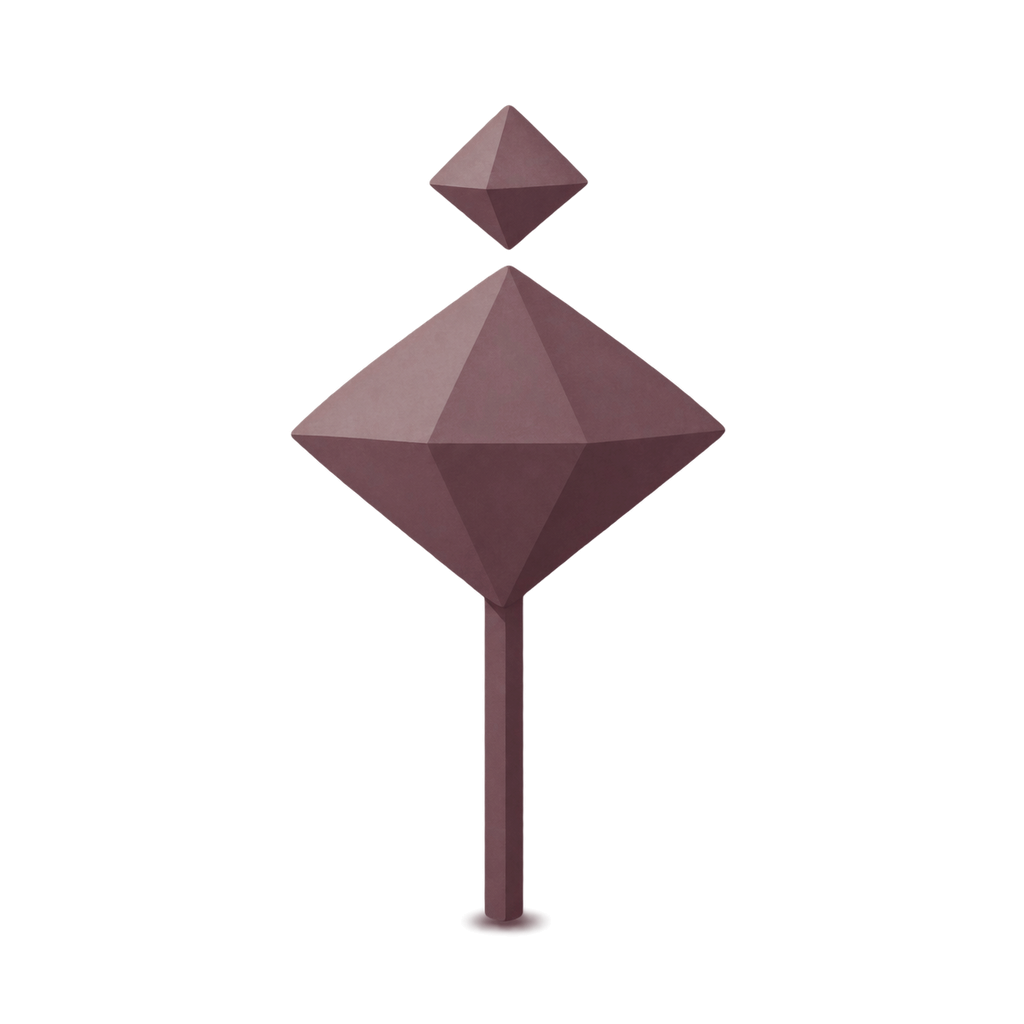
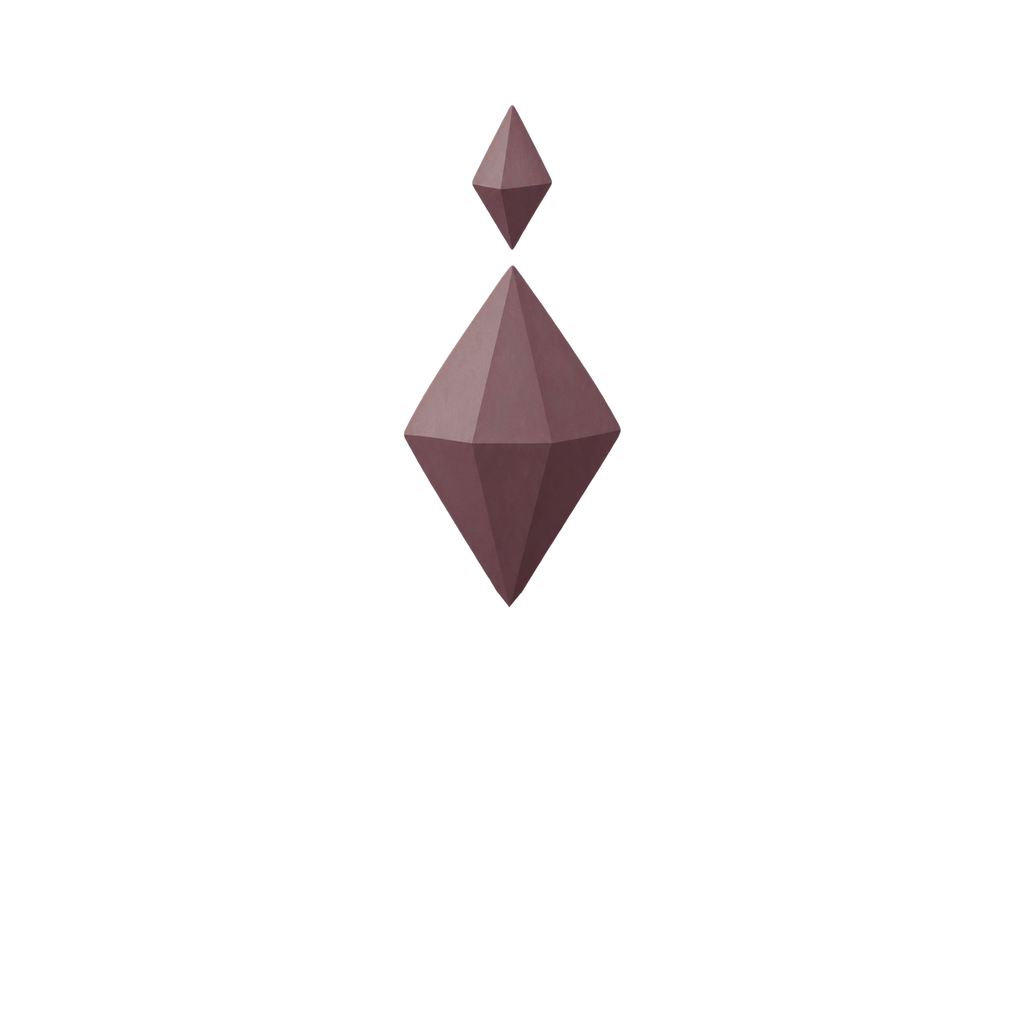
Add picture wheel concepts and thin floating Waypost gems

Changed region(s): [[0.2812, 0.0938, 0.7188, 0.9375]]

diff --git a/design/art/concepts/lost-and-found/make-review.py b/design/art/concepts/lost-and-found/make-review.py
@@ -3,7 +3,7 @@ from pathlib import Path
 from collections import deque
 from io import BytesIO
 import subprocess
-from PIL import Image, ImageOps, ImageDraw, ImageFilter, ImageFont
+from PIL import Image, ImageOps, ImageDraw, ImageFilter, ImageFont, ImageChops
 P=Path(__file__).resolve().parent
 LAND=(243,239,230); NAVY=(22,38,63); BRASS=(201,161,90); PLUM=(110,43,63)
 SIZE=(1024,1536)
@@ -40,36 +40,55 @@ def extract_keyhole_ball():
     ball=Image.new("RGBA",(edge,edge))
     ball.paste(piece,((edge-piece.width)//2,(edge-piece.height)//2))
     export("ball/ball-keyhole.png",ball)
-def derive_gems():
+def gem_pieces():
     source=load(P/"waypost/landmark-a-gem.png")
-    alpha=source.getchannel("A");w,h=source.size
-    bands=[]
+    alpha=source.getchannel("A");w,h=source.size;bands=[]
     for y in range(h):
         if alpha.crop((0,y,w,y+1)).getextrema()[1]>0:
             if not bands or y>bands[-1][1]+1:bands.append([y,y])
             else:bands[-1][1]=y
-    if len(bands)!=2 or bands[1][0]-bands[0][1]<2:
-        raise RuntimeError("Small upper gem is not cleanly separate; stop for Roy.")
-    # Exactly delete the separate upper piece, then crop/centre without resampling.
-    lower=source.crop((0,bands[1][0],w,h))
-    piece=lower.crop(lower.getchannel("A").getbbox())
+    if bands!=[[103,251],[263,936]]:
+        raise RuntimeError("Source geometry changed; gem separation needs Roy's review.")
+    small=source.crop((0,103,w,252));small=small.crop(small.getchannel("A").getbbox())
+    # Follow the visible pointed facet boundary in the source, clipping the pole behind it.
+    mask=Image.new("L",(w*4,h*4));d=ImageDraw.Draw(mask)
+    points=((0,263),(w,263),(w,593),(525,593),(502,607),(480,593),(0,593))
+    d.polygon([(x*4,y*4) for x,y in points],fill=255)
+    mask=mask.resize(source.size,Image.Resampling.LANCZOS)
+    large=source.copy();large.putalpha(ImageChops.multiply(alpha,mask));large=large.crop(large.getchannel("A").getbbox())
+    return source,large,small
+def derive_gems():
+    source,large,small=gem_pieces();w,h=source.size
+    large=large.resize((round(large.width*.5),large.height),Image.Resampling.LANCZOS)
+    small=small.resize((round(small.width*.5),small.height),Image.Resampling.LANCZOS)
     common=Image.new("RGBA",source.size)
-    common.paste(piece,((w-piece.width)//2,(h-piece.height)//2))
+    common.paste(large,((w-large.width)//2,(h-large.height)//2))
     export("waypost/waypost-gem-purple.png",common)
-    r,g,b,a=source.split()
+    stacked=Image.new("RGBA",source.size)
+    stacked.paste(large,((w-large.width)//2,263))
+    stacked.paste(small,((w-small.width)//2,103))
+    r,g,b,a=stacked.split()
     deeper=Image.merge("RGBA",tuple(ch.point(lambda v:round(v*.8)) for ch in (r,g,b))+(a,))
     export("waypost/landmark-gem-deep-purple.png",deeper)
 def overview():
     out=load(P/"screens/map-plain.png")
     hero=resized(crop(load(P/"cracks/hourglass-corrupted-a.png")),height=200)
     out.alpha_composite(hero,((1024-hero.width)//2,500))
+    source=load(P/"waypost/landmark-a-gem.png")
+    old_common=source.crop((0,263,1024,1024));old_common=old_common.crop(old_common.getchannel("A").getbbox())
+    old_stack=source.crop(source.getchannel("A").getbbox())
+    shadow=Image.new("RGBA",SIZE);d=ImageDraw.Draw(shadow)
+    for cx,cy in ((170,650),(850,740),(610,1130),(380,290)):
+        rx=7 if (cx,cy)!=(380,290) else 11
+        d.ellipse((cx-rx,cy-3,cx+rx,cy+3),fill=NAVY+(45,))
+    out=Image.alpha_composite(out,shadow.filter(ImageFilter.GaussianBlur(2.5)))
     for cx,cy in ((170,650),(850,740),(610,1130)):
-        name=NAMES[0]
-        im=resized(crop(load(P/f"waypost/{name}.png")),width=56)
-        out.alpha_composite(im,(cx-im.width//2,cy-im.height))
-    for name,(cx,cy) in zip(LANDMARKS,((380,290),)):
-        im=resized(crop(load(P/f"waypost/{name}.png")),width=110)
-        out.alpha_composite(im,(cx-im.width//2,cy-im.height))
+        scale=56/old_common.width;im=crop(load(P/"waypost/waypost-gem-purple.png"))
+        im=im.resize((round(im.width*scale),round(im.height*scale)),Image.Resampling.LANCZOS)
+        out.alpha_composite(im,(cx-im.width//2,cy-round(old_common.height*scale)))
+    scale=110/old_stack.width;im=crop(load(P/"waypost/landmark-gem-deep-purple.png"))
+    im=im.resize((round(im.width*scale),round(im.height*scale)),Image.Resampling.LANCZOS)
+    out.alpha_composite(im,(380-im.width//2,290-round(old_stack.height*scale)))
     export("screens/map-capsule-and-wayposts.png",out.convert("RGB"))
 def small_check():
     out=Image.new("RGBA",(500,300),LAND+(255,))
@@ -78,6 +97,35 @@ def small_check():
             im=fit(crop(load(P/f"waypost/{name}.png")),size,size)
             out.alpha_composite(im,(cx-im.width//2,25+row*135))
     export("checks/wayposts-64.png",out)
+WHEEL_SCENES=(
+    ("park","Park"),("garden","Garden"),("waterfront","Waterfront"),
+    ("square","Square"),("public-art","Public art"),
+    ("landmark-taipei","Landmark: Taipei"),
+    ("landmark-singapore","Landmark: Singapore"),("landmark-macau","Landmark: Macau"),
+)
+def wheel_circle(path,size):
+    # Rim belongs to the preview, never to the opaque square scene master.
+    scale=4;edge=size*scale
+    scene=load(P/path).resize((edge,edge),Image.Resampling.LANCZOS)
+    mask=Image.new("L",(edge,edge));ImageDraw.Draw(mask).ellipse((0,0,edge-1,edge-1),fill=255)
+    scene.putalpha(mask)
+    ImageDraw.Draw(scene).ellipse((0,0,edge-1,edge-1),outline=BRASS+(255,),width=3*scale)
+    return scene.resize((size,size),Image.Resampling.LANCZOS)
+def wheel_checks():
+    for name,_ in WHEEL_SCENES:
+        path=P/f"wheel/scene-{name}.png";im=load(path)
+        if im.width!=im.height or min(im.size)<1024:
+            raise RuntimeError(f"Expected square scene at least 1024 px: {path}")
+        if im.getchannel("A").getextrema()!=(255,255):
+            raise RuntimeError(f"Expected opaque wheel scene: {path}")
+        if im.size!=(1024,1024):
+            im.resize((1024,1024),Image.Resampling.LANCZOS).convert("RGB").save(path)
+    check=Image.new("RGBA",(480,8*264),(246,248,251,255))
+    for row,(name,_) in enumerate(WHEEL_SCENES):
+        path=f"wheel/scene-{name}.png"
+        for x,size in ((32,96),(200,240)):
+            check.alpha_composite(wheel_circle(path,size),(x,row*264+(264-size)//2))
+    export("checks/wheel-96-240.png",check.convert("RGB"))
 def chosen_ball_previews():
     gold_path=P/"ball/ball-keyhole-gold.png"
     gold=load(gold_path)
@@ -112,10 +160,12 @@ def sheet():
       ("",[("cracks/other-vessels-proof.png","Crack A on the dome, envelope and Maison vessels")],450),
       ("3 Throw and hit",[("screens/screen-throw.png","Throw: keyhole ball, separate layers"),("screens/screen-hit.png","Hit: mending Corrupted Capsule")],700),
       ("",[("screens/catch-background.png","Shared catch and Landmark fight background")],650),
-      ("4 Waypost",[("waypost/waypost-gem-purple.png","Waypost: purple gem"),("waypost/landmark-gem-deep-purple.png","Landmark Waypost: deep purple gem"),("screens/map-capsule-and-wayposts.png","Chosen Wayposts on the map")],550),
+      ("4 Waypost",[("waypost/waypost-gem-purple.png","Waypost: floating purple gem"),("waypost/landmark-gem-deep-purple.png","Landmark Waypost: floating deep purple gems"),("screens/map-capsule-and-wayposts.png","Chosen Wayposts on the map")],550),
       ("5 Landmark fight",[("screens/screen-landmark-fight.png","Landmark fight: chosen keyhole ball")],700),
       ("6 To whoever passes by",[("whoever/portrait-a-bench.png","Bench portrait"),("checks/bench-portrait-24-40.png","Bench portrait at actual 24 and 40 px")],380),
-      ("",[("whoever/scene-a-bench.png","Bench scene: an envelope waiting")],450)
+      ("",[("whoever/scene-a-bench.png","Bench scene: an envelope waiting")],450),
+      ("7 Waypost picture wheel",[(f"wheel/scene-{name}.png",label) for name,label in WHEEL_SCENES[:4]],480),
+      ("",[(f"wheel/scene-{name}.png",label) for name,label in WHEEL_SCENES[4:]],480)
     ]
     height=sum(h+80 for _,_,h in rows)
     out=Image.new("RGBA",(2200,height),(246,248,251,255));d=ImageDraw.Draw(out);y=0
@@ -125,10 +175,11 @@ def sheet():
         for i,(path,label) in enumerate(items):
             picture=load(P/path)
             if path in ("ball/ball-keyhole.png","ball/ball-keyhole-gold.png"):picture=crop(picture)
+            if path.startswith("wheel/"):picture=wheel_circle(path,400)
             im=fit(picture,cw-32,h-42)
             out.alpha_composite(im,(i*cw+(cw-im.width)//2,y+(h-42-im.height)//2))
             d.text((i*cw+16,y+h-35),label,font=font,fill=NAVY)
         y+=h+36
     export("contact-sheet.png",out.convert("RGB"))
 if __name__=="__main__":
-    extract_keyhole_ball();chosen_ball_previews();sheet()
+    derive_gems();overview();small_check();wheel_checks();sheet()

diff --git a/design/art/concepts/lost-and-found/README.md b/design/art/concepts/lost-and-found/README.md
@@ -1,6 +1,6 @@
 # Time Capsule / 時光膠囊 — Roy's chosen concept set
 
-These remain concept pictures, not production assets. The contact sheet shows only Roy's final choices. Unchosen options remain in the folder for reference; no option artwork is deleted in this update.
+These remain concept pictures, not production assets. The contact sheet shows Roy's chosen set followed by the new picture wheel scenes for approval. Unchosen options remain in the folder for reference; no option artwork is deleted in this update.
 
 ## Roy's choices
 
@@ -8,7 +8,11 @@ These remain concept pictures, not production assets. The contact sheet shows on
 - Gold ball: branching brass-gold veins redrawn onto that keyhole ball, avoiding the keyhole.
 - Cracks: Crack A, the large branching cracks.
 - To whoever passes by: portrait A and scene A, the envelope on a bench.
-- Waypost: purple gem; Landmark Waypost: deep purple stacked gem.
+- Waypost: floating purple gem; Landmark Waypost: floating deep purple gems. Roy's final marker decision is thinner gems with no poles.
+
+## Roy to approve
+
+- Picture wheel scenes: the five invented places and three loose landmark scenes, including their 96 px and 240 px circular checks.
 
 ## Keyhole ball source and exact extraction
 
@@ -16,7 +20,7 @@ These remain concept pictures, not production assets. The contact sheet shows on
 
 The normal LEFT ball is selected by the largest connected nonzero-alpha component in the left half of the 1024 × 1024 source canvas. Its exact crop bounds are (102,348)–(431,683), end exclusive: **329 × 335 px**. That original RGBA rectangle is pasted at integer offset (3,0) on a **335 × 335 px** transparent square canvas. There is no resampling, upscaling, filtering, recolouring or alpha adjustment. The right-hand premium ball and its halo are excluded.
 
-`ball/ball-keyhole-gold.png` is the only new generated picture. Its exact final prompt and ordered references are below. The output is downscaled to fit 1024 without upscaling; native transparency is retained.
+`ball/ball-keyhole-gold.png` is the previously chosen generated gold variant. Its exact final prompt and ordered references are below. The output is downscaled to fit 1024 without upscaling; native transparency is retained. Both chosen ball files remain byte-identical in the current update.
 
 ## Script processing and separate layers
 
@@ -26,19 +30,202 @@ Run from the repository root with Pillow in a temporary environment outside the 
 /tmp/timecapsule-concept-venv/bin/python design/art/concepts/lost-and-found/make-review.py
 ```
 
-The script writes only inside this concept folder. Its current main path extracts the keyhole ball, updates the named ball previews/checks, and builds the chosen-set contact sheet. Retained gem/overview helper recipes are not rerun.
+The script writes only inside this concept folder. Its current main path derives the floating gems, rebuilds the map and Waypost check, checks/normalizes the new wheel scenes, builds the wheel check, and rebuilds the contact sheet. The retained ball extraction and preview helpers are not rerun, preserving all previously chosen ball/screen artwork.
 
 - `screens/layers/ball-keyhole.png` replaces `screens/layers/ball-a.png`: exact normal keyhole ball artwork cropped by alpha and uniformly resized to 180 px wide, bottom-centred at the same x centre 512 and y=1270 as before.
 - `screens/screen-throw.png` and `screen-landmark-fight.png`: same background, shadow and capsule layers, with only the ball layer swapped. No other pixel outside the old/new ball region changes.
 - `checks/balls-64.png`: normal and gold keyhole balls at maximum visible dimension 64 px, on map land #F3EFE6 and white road.
 - `checks/bench-portrait-24-40.png`: only the chosen bench portrait at actual 24 and 40 px on paper. The older two-portrait check stays unchanged.
-- `contact-sheet.png`: 2200 px wide, in the requested order: keyhole balls/check → Crack A Corrupted/restored hourglass and three other vessels → throw/hit/background → chosen gem Wayposts/map → Landmark fight → bench portrait/check/scene. Only this image contains text. Ball gallery previews are cropped for comparable visible sizes without upscaling the normal source.
-- The source purple gem, both derived gems, overview, Corrupted Capsule art, Crack A proofs, restored master, hit picture, backgrounds and all other layers remain byte-identical. The common gem is the exact lower piece of its source centred unchanged; the Landmark retains the stack at 80% RGB with unchanged alpha.
+- `contact-sheet.png`: 2200 px wide, in the requested order: keyhole balls/check → Crack A Corrupted/restored hourglass and three other vessels → throw/hit/background → chosen gem Wayposts/map → Landmark fight → bench portrait/check/scene → Waypost picture wheel. Only this image contains text. Ball gallery previews are cropped for comparable visible sizes without upscaling the normal source.
+- `waypost/landmark-a-gem.png` remains byte-identical. The small upper gem is a separate alpha piece (rows 103–251, followed by blank rows 252–262). The large gem is clipped along its visible pointed facet boundary: (480,593) → (502,607) → (525,593), removing the pole behind the point and the ground dot. An antialiased alpha mask follows that boundary; no facet is repainted. Each gem is then resized to 50% width at unchanged height with Lanczos resampling. Colours and the three facet tones are retained. The common gem is centred on the original 1024 square. The Landmark keeps the large/small stack, with each gem compressed separately, and applies RGB × 0.8 with the derived alpha unchanged. Neither marker contains a pole, dot or shadow.
+- `screens/map-capsule-and-wayposts.png`: original map and capsule recipe retained, with gem centres and top positions anchored to the prior layout. The common gems are about 28 px wide and the Landmark about 55 px wide after the 50% width change. Soft small shadows are drawn only in this preview at the four former pole-dot locations. The capsule remains the main subject. At map size the markers still look like faceted diamonds, not needles or lines.
+- `checks/wayposts-64.png`: common floating gem at maximum dimensions 48/64 px and stacked Landmark at 64/96 px on #F3EFE6. Captions on the contact sheet are “Waypost: floating purple gem” and “Landmark Waypost: floating deep purple gems”.
+- Corrupted Capsule art, Crack A proofs, restored master, hit picture, backgrounds, ball/portrait checks and all other layers remain byte-identical.
 - Existing crack effects, unchosen ball options, Crack B, lamp portrait/scene, their checks and their recorded provenance remain in the folder unchanged.
 
-Map, shadow, capsule, ball and dust remain separate. Targets and capsule motion are supplied by the app. Backgrounds are invented and show no real place, so the real-geography reference step does not apply. No app/browser/device integration is claimed.
+Map, shadow, capsule, ball and dust remain separate. Targets and capsule motion are supplied by the app. Catch/map backgrounds are invented; the new loose landmark wheel scenes have separately recorded photo references below. No app/browser/device integration is claimed.
 
 Visual checks cover transparency, no writing/logos, no glow/halo on the chosen balls, irregular gold veins avoiding the keyhole, 64 px distinction, and the chosen-set contact sheet. The normal ball's 335 × 335 canvas is intentionally retained at its source resolution.
+
+## Picture wheel scenes — concept review
+
+The eight `wheel/scene-*.png` files are opaque 1024 × 1024 squares generated with Codex's built-in `gpt-image-2` tool. The first ordered reference on every call was `design/art/style-sheet.png`. The two loose tower/fountain scenes also used the specified approved vessel art. No photograph was passed to the image tool, and no real landmark or brand was named in a generation prompt.
+
+The five generic places are invented. The three landmark photographs below were inspected only for broad forms. The tower is deliberately simplified into stacked flared segments; the fountain is a loose pale stone lion/fish figure with a water arc. The Macau scene was checked against its photo for the black-and-cream wave paving, small central round fountain, and pale colonial arcades; it is a simplified concept rather than an exact architectural record.
+
+### Landmark photographs inspected
+
+| Scene | Source photo and author | Licence |
+| --- | --- | --- |
+| Taipei | [Taipei 101 - Taiwan — Ludovic Lubeigt](https://commons.wikimedia.org/wiki/File:Taipei_101_-_Taiwan.jpg) | [CC BY-SA 2.0](https://creativecommons.org/licenses/by-sa/2.0/) |
+| Singapore | [Merlion of Singapore — Kistara](https://commons.wikimedia.org/wiki/File:Merlion_of_Singapore.jpg) | [CC0 1.0](https://creativecommons.org/publicdomain/zero/1.0/) |
+| Macau | [Senado Square Macao — Georgio](https://commons.wikimedia.org/wiki/File:Senado_Square_Macao.jpg) | [CC BY-SA 3.0](https://creativecommons.org/licenses/by-sa/3.0/) |
+
+These licences describe the inspected photos. No photo pixels are included in the concepts.
+
+### Processing and visual checks
+
+The generated 1254 × 1254 outputs are downscaled together with the same Lanczos recipe to 1024 × 1024; no upscaling or background removal is needed. The scene masters contain no text, decorative circle, rim or frame. The app supplies the rim.
+
+`wheel_circle()` in `make-review.py` uses an antialiased circular alpha mask and a simple 3 px brass #C9A15A rim drawn by script. `checks/wheel-96-240.png` shows each scene in the listed order at actual 96 px (left) and 240 px (right), with no text. The contact sheet adds the last section, “Waypost picture wheel”, with all eight 400 px circular previews and plain-English captions. It is the only image in this update with text.
+
+Visual review checked the full scenes and the 96/240 px circular crops for centred subjects, usable crop margins, legibility, no people/writing/logos, hand-inked style and no generated rim/frame. Framing failures and the waterfront's first unwanted object assortment were regenerated; the final saved set has clear central subjects and no unresolved rule failures. The photograph comparisons are visual concept checks, not app/browser/device integration.
+
+### Exact final scene prompts
+
+#### `wheel/scene-park.png`
+
+Model: `gpt-image-2` (Codex built-in)
+
+Ordered references: `design/art/style-sheet.png`
+
+```text
+App: 時光膠囊 / Time Capsule. People send a sealed letter that can only be opened at a set time and place. Mood: tender, human, nostalgic, "precious in the AI age". Hand-inked storybook, not glossy 3D.
+- Clean ink line art with a slightly hand-drawn line, flat colour fills plus one soft shading tone, a little paper grain, light hatching only (it must still read at about 120 px). Lines in plum #6E2B3F or navy #16263F.
+- Palette only: ink blue #2F5D8A, light blue #5A8FD0, glass blue #DCE8F2, plum #6E2B3F, brass #C9A15A, wax red #A3364F, navy #16263F, paper #F6F8FB, cream #F3E2BB. Warm brown wood is allowed for wooden objects.
+- Front three-quarter view, soft top-left light. No text, letters, numbers, logos or real brands.
+- Transparent background, object centred, generous padding (object fills about 70% of the canvas), square.
+Match the attached style sheet exactly.
+
+Override for this image only: this is an illustrated scene on an opaque square, 1024×1024, not an object on a transparent background. Ignore the style block's lines about transparent background and object size. It will be cropped to a circle, so one clear subject sits in the centre, all important detail stays within the middle 70%, and the corners hold only simple background. Hand-inked storybook illustration, never photorealistic. Foliage uses ink blue and the muted teal-green of the rose leaves in the style sheet. Calm, simple shapes that read when small. No people, text, signs, logos, circles, rims or frames.
+One big shady tree over a curving footpath and a wooden bench. Generic invented park, never a real spot.
+The whole tree including its canopy, the bench and the curve of path must fit inside x=15–85% and y=15–85% of the square. Smaller central composition, surrounded by plain soft background. No isolated curved or circular vignette boundary. No flowers in the foreground. First reference is style only, copy no objects from it.
+```
+
+#### `wheel/scene-garden.png`
+
+Model: `gpt-image-2` (Codex built-in)
+
+Ordered references: `design/art/style-sheet.png`
+
+```text
+App: 時光膠囊 / Time Capsule. People send a sealed letter that can only be opened at a set time and place. Mood: tender, human, nostalgic, "precious in the AI age". Hand-inked storybook, not glossy 3D.
+- Clean ink line art with a slightly hand-drawn line, flat colour fills plus one soft shading tone, a little paper grain, light hatching only (it must still read at about 120 px). Lines in plum #6E2B3F or navy #16263F.
+- Palette only: ink blue #2F5D8A, light blue #5A8FD0, glass blue #DCE8F2, plum #6E2B3F, brass #C9A15A, wax red #A3364F, navy #16263F, paper #F6F8FB, cream #F3E2BB. Warm brown wood is allowed for wooden objects.
+- Front three-quarter view, soft top-left light. No text, letters, numbers, logos or real brands.
+- Transparent background, object centred, generous padding (object fills about 70% of the canvas), square.
+Match the attached style sheet exactly.
+
+Override for this image only: this is an illustrated scene on an opaque square, 1024×1024, not an object on a transparent background. Ignore the style block's lines about transparent background and object size. It will be cropped to a circle, so one clear subject sits in the centre, all important detail stays within the middle 70%, and the corners hold only simple background. Hand-inked storybook illustration, never photorealistic. Foliage uses ink blue and the muted teal-green of the rose leaves in the style sheet. Calm, simple shapes that read when small. No people, text, signs, logos, circles, rims or frames.
+A small arched wooden footbridge among flowering shrubs. Generic invented garden, never a real spot.
+```
+
+#### `wheel/scene-waterfront.png`
+
+Model: `gpt-image-2` (Codex built-in)
+
+Ordered references: `design/art/style-sheet.png`
+
+```text
+App: 時光膠囊 / Time Capsule. People send a sealed letter that can only be opened at a set time and place. Mood: tender, human, nostalgic, "precious in the AI age". Hand-inked storybook, not glossy 3D.
+- Clean ink line art with a slightly hand-drawn line, flat colour fills plus one soft shading tone, a little paper grain, light hatching only (it must still read at about 120 px). Lines in plum #6E2B3F or navy #16263F.
+- Palette only: ink blue #2F5D8A, light blue #5A8FD0, glass blue #DCE8F2, plum #6E2B3F, brass #C9A15A, wax red #A3364F, navy #16263F, paper #F6F8FB, cream #F3E2BB. Warm brown wood is allowed for wooden objects.
+- Front three-quarter view, soft top-left light. No text, letters, numbers, logos or real brands.
+- Transparent background, object centred, generous padding (object fills about 70% of the canvas), square.
+Match the attached style sheet exactly.
+
+Override for this image only: this is an illustrated scene on an opaque square, 1024×1024, not an object on a transparent background. Ignore the style block's lines about transparent background and object size. It will be cropped to a circle, so one clear subject sits in the centre, all important detail stays within the middle 70%, and the corners hold only simple background. Hand-inked storybook illustration, never photorealistic. Foliage uses ink blue and the muted teal-green of the rose leaves in the style sheet. Calm, simple shapes that read when small. No people, text, signs, logos, circles, rims or frames.
+A short wooden pier reaching into calm water at soft dusk. Generic invented waterfront, never a real spot.
+Use the first reference only for line, colour and texture. Do not copy any of its objects. One EMPTY short wooden pier pointing toward the centre of a calm bay. No vessels, bottles, rose domes, lanterns, boxes, letters, jewellery, loose objects, sun or moon disc. Keep the entire pier inside the middle 70%.
+```
+
+#### `wheel/scene-square.png`
+
+Model: `gpt-image-2` (Codex built-in)
+
+Ordered references: `design/art/style-sheet.png`
+
+```text
+App: 時光膠囊 / Time Capsule. People send a sealed letter that can only be opened at a set time and place. Mood: tender, human, nostalgic, "precious in the AI age". Hand-inked storybook, not glossy 3D.
+- Clean ink line art with a slightly hand-drawn line, flat colour fills plus one soft shading tone, a little paper grain, light hatching only (it must still read at about 120 px). Lines in plum #6E2B3F or navy #16263F.
+- Palette only: ink blue #2F5D8A, light blue #5A8FD0, glass blue #DCE8F2, plum #6E2B3F, brass #C9A15A, wax red #A3364F, navy #16263F, paper #F6F8FB, cream #F3E2BB. Warm brown wood is allowed for wooden objects.
+- Front three-quarter view, soft top-left light. No text, letters, numbers, logos or real brands.
+- Transparent background, object centred, generous padding (object fills about 70% of the canvas), square.
+Match the attached style sheet exactly.
+
+Override for this image only: this is an illustrated scene on an opaque square, 1024×1024, not an object on a transparent background. Ignore the style block's lines about transparent background and object size. It will be cropped to a circle, so one clear subject sits in the centre, all important detail stays within the middle 70%, and the corners hold only simple background. Hand-inked storybook illustration, never photorealistic. Foliage uses ink blue and the muted teal-green of the rose leaves in the style sheet. Calm, simple shapes that read when small. No people, text, signs, logos, circles, rims or frames.
+An open paved square with one simple old street lamp at its centre. Generic invented square, never a real spot.
+Use the first reference only for line, colour and texture. Do not copy its vessels, bottles, rose domes, lanterns, boxes, letters or jewellery. No sun or moon disc.
+```
+
+#### `wheel/scene-public-art.png`
+
+Model: `gpt-image-2` (Codex built-in)
+
+Ordered references: `design/art/style-sheet.png`
+
+```text
+App: 時光膠囊 / Time Capsule. People send a sealed letter that can only be opened at a set time and place. Mood: tender, human, nostalgic, "precious in the AI age". Hand-inked storybook, not glossy 3D.
+- Clean ink line art with a slightly hand-drawn line, flat colour fills plus one soft shading tone, a little paper grain, light hatching only (it must still read at about 120 px). Lines in plum #6E2B3F or navy #16263F.
+- Palette only: ink blue #2F5D8A, light blue #5A8FD0, glass blue #DCE8F2, plum #6E2B3F, brass #C9A15A, wax red #A3364F, navy #16263F, paper #F6F8FB, cream #F3E2BB. Warm brown wood is allowed for wooden objects.
+- Front three-quarter view, soft top-left light. No text, letters, numbers, logos or real brands.
+- Transparent background, object centred, generous padding (object fills about 70% of the canvas), square.
+Match the attached style sheet exactly.
+
+Override for this image only: this is an illustrated scene on an opaque square, 1024×1024, not an object on a transparent background. Ignore the style block's lines about transparent background and object size. It will be cropped to a circle, so one clear subject sits in the centre, all important detail stays within the middle 70%, and the corners hold only simple background. Hand-inked storybook illustration, never photorealistic. Foliage uses ink blue and the muted teal-green of the rose leaves in the style sheet. Calm, simple shapes that read when small. No people, text, signs, logos, circles, rims or frames.
+One abstract curved sculpture on a low plinth. Generic invented place, never a real spot.
+Use the first reference only for line, colour and texture. Do not copy its vessels, bottles, rose domes, lanterns, boxes, letters or jewellery. No sun or moon disc.
+```
+
+#### `wheel/scene-landmark-taipei.png`
+
+Model: `gpt-image-2` (Codex built-in)
+
+Ordered references: `design/art/style-sheet.png`, `design/art/vessels/vessel-bamboo-tower.png`
+
+```text
+App: 時光膠囊 / Time Capsule. People send a sealed letter that can only be opened at a set time and place. Mood: tender, human, nostalgic, "precious in the AI age". Hand-inked storybook, not glossy 3D.
+- Clean ink line art with a slightly hand-drawn line, flat colour fills plus one soft shading tone, a little paper grain, light hatching only (it must still read at about 120 px). Lines in plum #6E2B3F or navy #16263F.
+- Palette only: ink blue #2F5D8A, light blue #5A8FD0, glass blue #DCE8F2, plum #6E2B3F, brass #C9A15A, wax red #A3364F, navy #16263F, paper #F6F8FB, cream #F3E2BB. Warm brown wood is allowed for wooden objects.
+- Front three-quarter view, soft top-left light. No text, letters, numbers, logos or real brands.
+- Transparent background, object centred, generous padding (object fills about 70% of the canvas), square.
+Match the attached style sheet exactly.
+
+Override for this image only: this is an illustrated scene on an opaque square, 1024×1024, not an object on a transparent background. Ignore the style block's lines about transparent background and object size. It will be cropped to a circle, so one clear subject sits in the centre, all important detail stays within the middle 70%, and the corners hold only simple background. Hand-inked storybook illustration, never photorealistic. Foliage uses ink blue and the muted teal-green of the rose leaves in the style sheet. Calm, simple shapes that read when small. No people, text, signs, logos, circles, rims or frames.
+One tall stepped tower of stacked flared segments rising above a low simple city. Loosely inspired only, not an exact likeness. The second reference shows how loose and simplified the form should be; draw a scene, not a vessel.
+Use the first reference only for line, colour and texture. Do not copy its vessels, bottles, rose domes, lanterns, boxes, letters or jewellery. No sun or moon disc.
+The tower including spire must fit completely within y=18–80% of the square, with generous plain sky above. Low city only in the middle 70%. Simpler than the reference vessel. No foreground flowers or detailed corner objects; corners are plain sky and ground.
+```
+
+#### `wheel/scene-landmark-singapore.png`
+
+Model: `gpt-image-2` (Codex built-in)
+
+Ordered references: `design/art/style-sheet.png`, `design/art/vessels/vessel-lionfish-fountain.png`
+
+```text
+App: 時光膠囊 / Time Capsule. People send a sealed letter that can only be opened at a set time and place. Mood: tender, human, nostalgic, "precious in the AI age". Hand-inked storybook, not glossy 3D.
+- Clean ink line art with a slightly hand-drawn line, flat colour fills plus one soft shading tone, a little paper grain, light hatching only (it must still read at about 120 px). Lines in plum #6E2B3F or navy #16263F.
+- Palette only: ink blue #2F5D8A, light blue #5A8FD0, glass blue #DCE8F2, plum #6E2B3F, brass #C9A15A, wax red #A3364F, navy #16263F, paper #F6F8FB, cream #F3E2BB. Warm brown wood is allowed for wooden objects.
+- Front three-quarter view, soft top-left light. No text, letters, numbers, logos or real brands.
+- Transparent background, object centred, generous padding (object fills about 70% of the canvas), square.
+Match the attached style sheet exactly.
+
+Override for this image only: this is an illustrated scene on an opaque square, 1024×1024, not an object on a transparent background. Ignore the style block's lines about transparent background and object size. It will be cropped to a circle, so one clear subject sits in the centre, all important detail stays within the middle 70%, and the corners hold only simple background. Hand-inked storybook illustration, never photorealistic. Foliage uses ink blue and the muted teal-green of the rose leaves in the style sheet. Calm, simple shapes that read when small. No people, text, signs, logos, circles, rims or frames.
+One pale stone fountain figure, part lion and part fish, sending an arc of water into a calm bay. Loosely inspired only, not an exact likeness. The second reference shows how loose and simplified the form should be; draw a scene, not a vessel.
+Use the first reference only for line, colour and texture. Do not copy its vessels, bottles, rose domes, lanterns, boxes, letters or jewellery. No sun or moon disc.
+Make the fountain figure and the water arc together a single centred group, entirely within x=18–82% and y=20–80% of the square. The figure is smaller and closer to the centre. Plain calm bay around it. No foreground flowers, branches or detailed corner objects.
+```
+
+#### `wheel/scene-landmark-macau.png`
+
+Model: `gpt-image-2` (Codex built-in)
+
+Ordered references: `design/art/style-sheet.png`
+
+```text
+App: 時光膠囊 / Time Capsule. People send a sealed letter that can only be opened at a set time and place. Mood: tender, human, nostalgic, "precious in the AI age". Hand-inked storybook, not glossy 3D.
+- Clean ink line art with a slightly hand-drawn line, flat colour fills plus one soft shading tone, a little paper grain, light hatching only (it must still read at about 120 px). Lines in plum #6E2B3F or navy #16263F.
+- Palette only: ink blue #2F5D8A, light blue #5A8FD0, glass blue #DCE8F2, plum #6E2B3F, brass #C9A15A, wax red #A3364F, navy #16263F, paper #F6F8FB, cream #F3E2BB. Warm brown wood is allowed for wooden objects.
+- Front three-quarter view, soft top-left light. No text, letters, numbers, logos or real brands.
+- Transparent background, object centred, generous padding (object fills about 70% of the canvas), square.
+Match the attached style sheet exactly.
+
+Override for this image only: this is an illustrated scene on an opaque square, 1024×1024, not an object on a transparent background. Ignore the style block's lines about transparent background and object size. It will be cropped to a circle, so one clear subject sits in the centre, all important detail stays within the middle 70%, and the corners hold only simple background. Hand-inked storybook illustration, never photorealistic. Foliage uses ink blue and the muted teal-green of the rose leaves in the style sheet. Calm, simple shapes that read when small. No people, text, signs, logos, circles, rims or frames.
+A sunny old public square with black-and-cream wave-patterned paving, a small round fountain at the centre, and pale pastel colonial buildings behind it. The fountain is a small architectural basin, not a decorative frame around the picture. No lettering on buildings.
+Use the first reference only for line, colour and texture. Do not copy its vessels, bottles, rose domes, lanterns, boxes, letters or jewellery. No sun or moon disc.
+Simplify this to large calm shapes that read at 96 px. The complete small fountain and the few main building shapes fit in the middle 70%. The corners hold only simple plain sky, building wall or broad paving waves, with no flowers, leaves, branches, window detail or other decorative foreground. No foreground tree. Use broad charcoal-navy and cream paving waves with very little tile detail.
+```
 
 ## Exact final gold keyhole ball prompt
 
